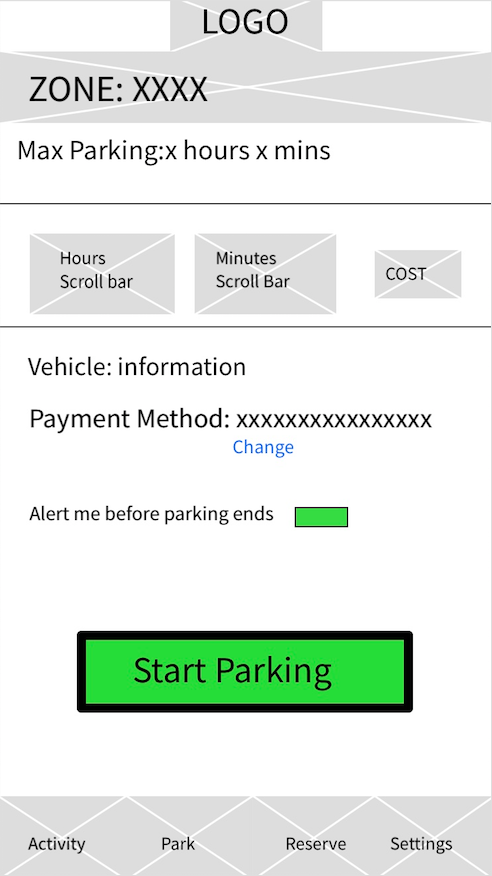
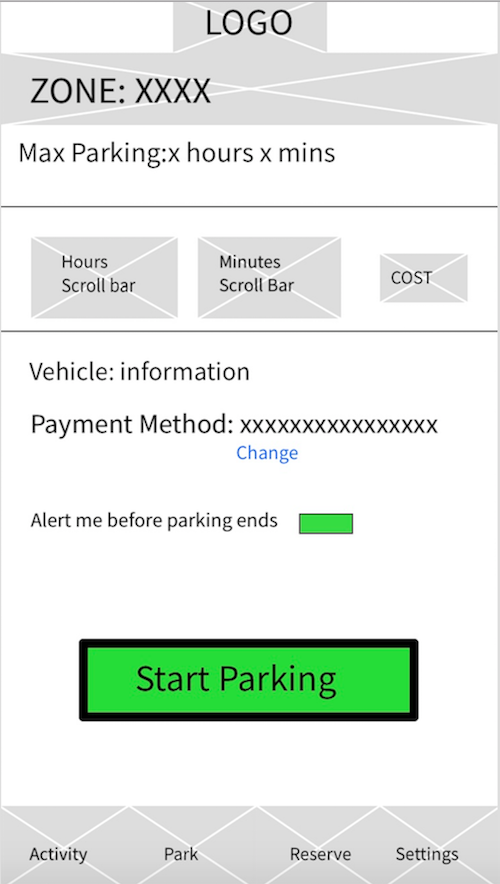
Almost there

diff --git a/index.html b/index.html
@@ -8,7 +8,10 @@
     <a href="#rfindings">User Research</a>
     <a href="#infoarch">Information Architecture</a>
     <a href="#sketches">Sketches</a>
+        <a href="#wireframes">Wireframes </a>
+
         <a href="#solution">Solution</a>
+
     </nav>
 </head>
 
@@ -19,7 +22,7 @@
   <h2>General Concept: </h2>
     <p> When going through applications to redesign I found many that I thought worked well and then remembered that this summer I noticed one big flaw in ParkMobile's application design. I was parking in town at the beach only to realize that the zone number that I need to put into park mobile was nowhere to be found. I needed to walk about a minute away to find the zone number where I was parking. Although this was not a problem for me to walk and physically find the number, I thought to myself that the app could really benefit from a system that shows you zones on a map and automatically finds which zone the user is parking in. </p>
 
-    <p> Despite being a fantastic application with great functionality it is clear that changes need to be made. The interface looks nice but with a few simple changes, the user experience will change for the better. My goal in this project was to improve the functionality of zone selection and parking. </p>
+    <p> Despite being a fantastic application with great functionality it is clear that changes need to be made. The interface looks nice but with a few simple changes, the user experience will change for the better. My goal in this project was to improve the functionality of zone selection and parking. On this site you will find my user research, information architecture, sketches, wireframes and ultimately the solution.Enjoy!  </p>
     </div>
 
 
@@ -96,7 +99,7 @@
     &nbsp; &nbsp;&nbsp;&nbsp;
 &nbsp; &nbsp;&nbsp;&nbsp;
 
-<div class="section4"> <a name="infoarch"> <h2>Information Architecture</h2></a>
+<div class="section4"> <a name="infoarch"> <h2>Information Architecture</h2></a><p> Here I mapped out each page of the ParkMobile App. The User flow that I chose to work with is finding your zone and ultimately pressing the start parking button. As you can see in the first column, this originally took 7 steps. My goal was to get this down to about 3 or 4 by removing the process of searching for and typing in the zone number. </p>
     <img src="images/infoarch.jpg" alt="Information Architecture of the original site" class="infoarch">
     </div>
    &nbsp; &nbsp;&nbsp;&nbsp;
@@ -104,6 +107,7 @@
 
 <div class="section5">
     <a name="sketches"> <h2> First Draft Sketches</h2></a>
+    <p>Here are my sketches that guided the remainder of my work. As you can see, my final designs were a combination of these designs. Both show the potential of maps opening up with new color coded outline with more information on each page.</p>
     <img src="images/1draftsketch.png" alt="First Draft Sketches in detail with notes" class="center">
 </div>
 
@@ -112,13 +116,16 @@
 &nbsp; &nbsp;&nbsp;&nbsp;
 
         <div class=section6>
+           <a name="wireframes"> <h2>Wireframes</h2></a>
+            <p>In this section you can see the wireframs that guided my final Redesign. This was done with purpose to remove unnecessary steps for the user and ultimately provide the most information in the smallest space possible. </p>
         <div class="grid-container">
             <div class="wire1"> <img src="images/wire1.png" alt="wireframe of a map page"> </div>
             <div class="wire2"><img src="images/wire2.png" alt="wireframe of the start parking page"></div>
 
             </div>
         </div>
-
+ &nbsp; &nbsp;&nbsp;&nbsp;
+&nbsp; &nbsp;&nbsp;&nbsp;
     <div class="section6" >
         <a name="solution">
         <h2> Solution </h2></a>

diff --git a/styles.css b/styles.css
@@ -74,11 +74,11 @@ padding:20px;}
 .wire1{
    grid-column-start:1;
             grid-row-start:1;
-    max-width:10%;
+    max-width:50%;
             height:auto;padding:5px;}
 .wire2{ grid-column-start:2;
             grid-row-start:1;
-            max-width:10%;
+            max-width:50%;
             height:auto; padding:5px;
             }
 .redesign1{ grid-column-start:1;
